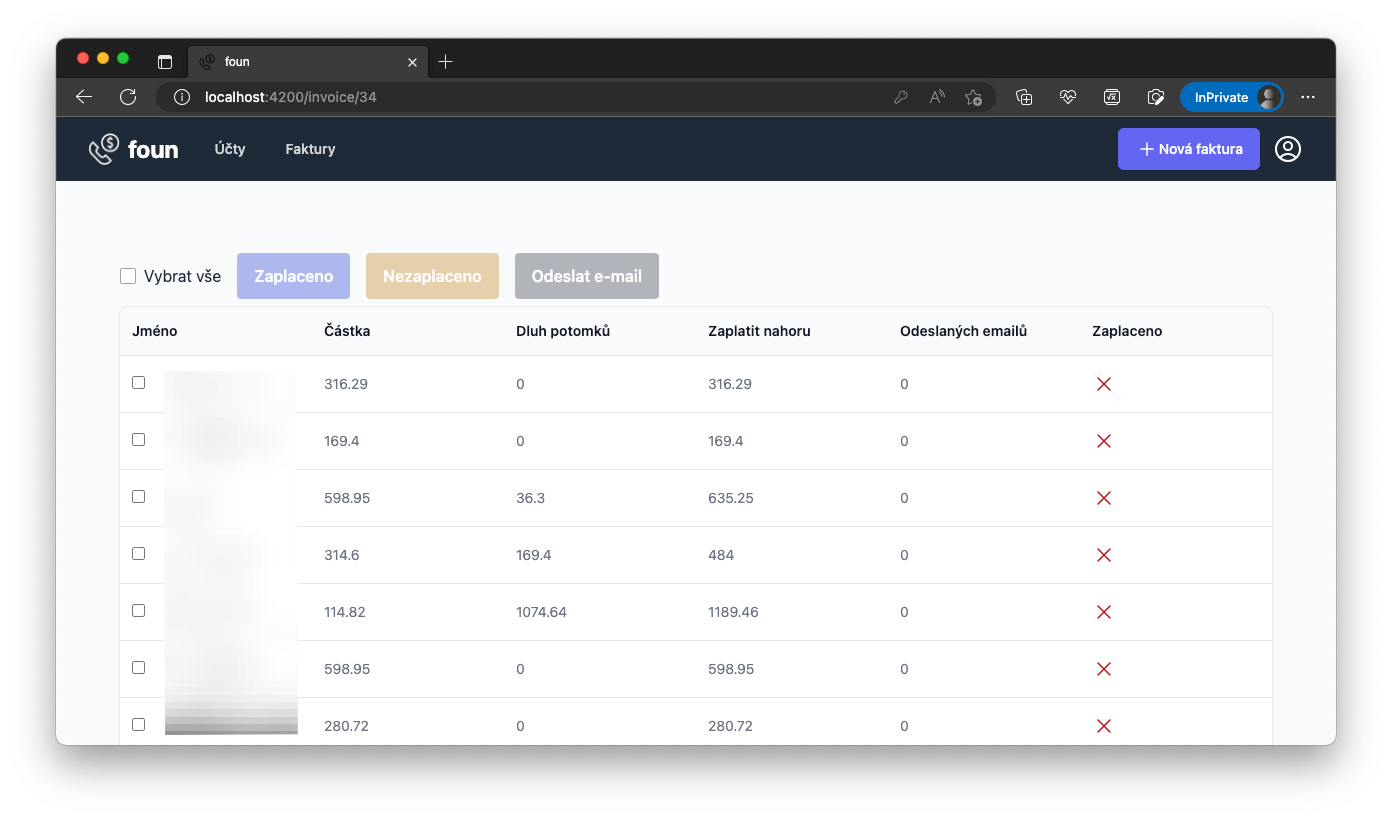
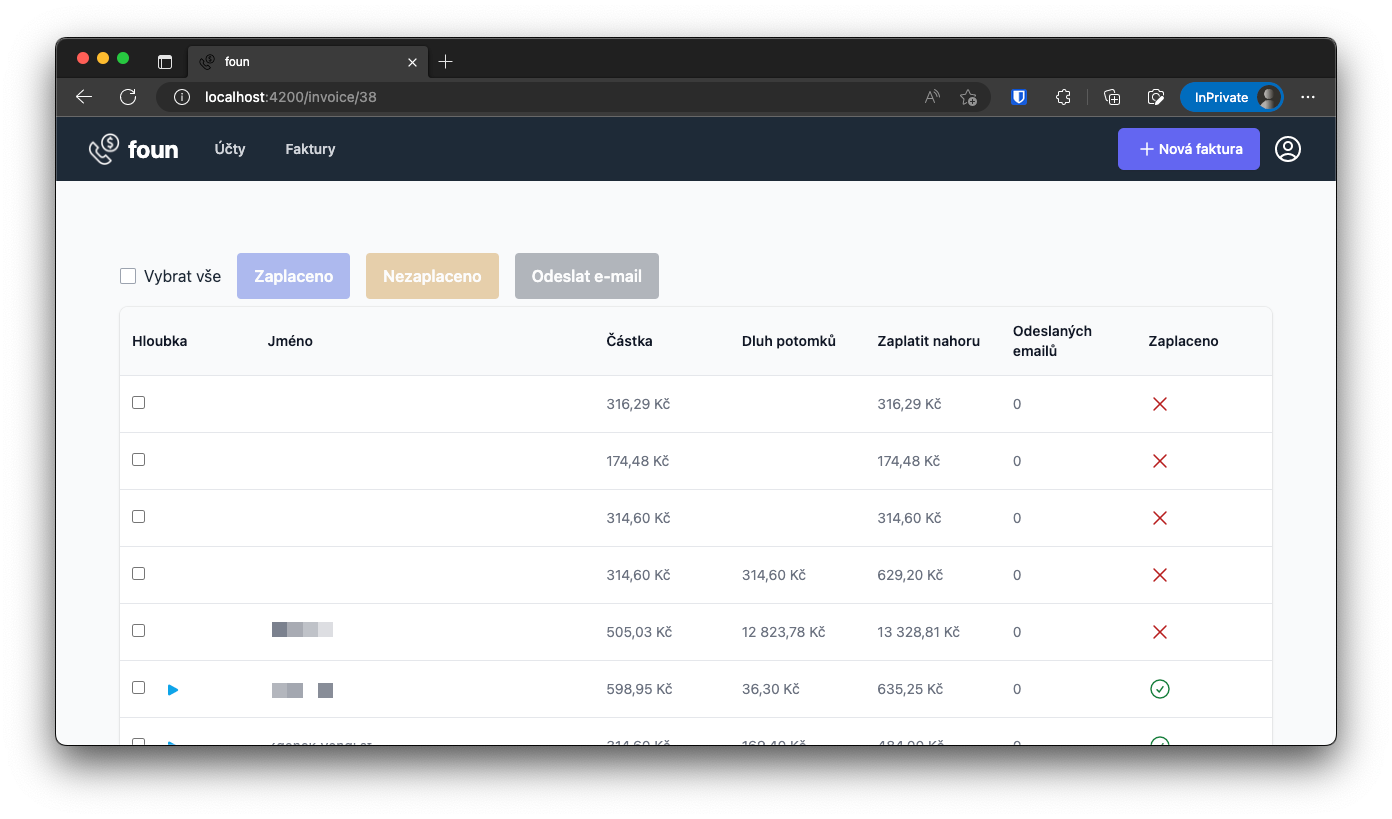
fix: tiny fixes & screenshots
- Screenshot updates
- Nice cell sorting touches

diff --git a/ui/frontend/app/authenticated/invoice/controller.js b/ui/frontend/app/authenticated/invoice/controller.js
@@ -7,7 +7,7 @@ export default class InvoiceController extends Controller {
   @service notifications;
   @service intl;
 
-  @tracked sorts;
+  @tracked sorts = [{ valuePath: 'account.depth', isAscending: true }];
 
   @action
   async togglePaid(newValue, selection) {
